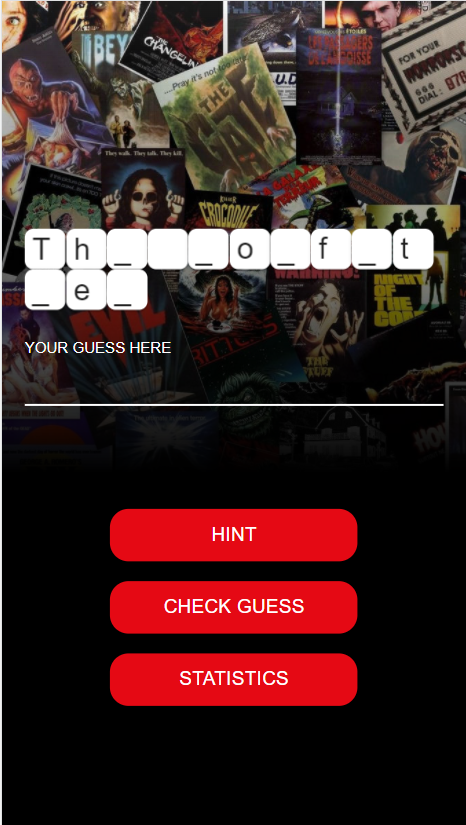
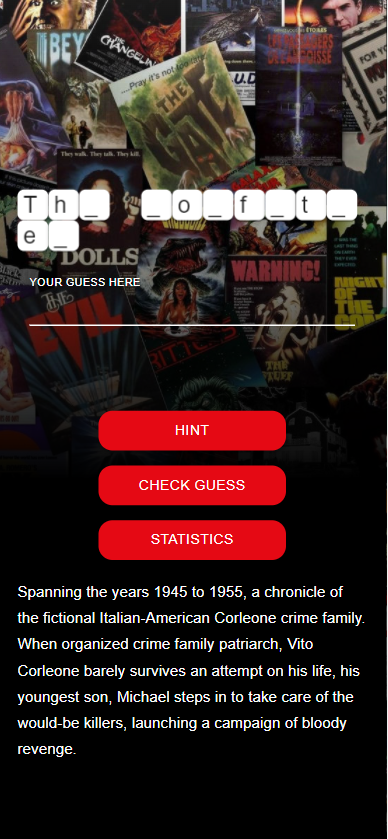
UI,gameplay improvments Added invisible elment as seperator of words in the puzzle Added case insensitivity when submitting a guess

diff --git a/src/components/flip-card/FlipCard.tsx b/src/components/flip-card/FlipCard.tsx
@@ -7,7 +7,13 @@ interface FlipCardProps {
   letter: string;
 }
 
+enum VisibleTypes {
+  hidden = "hidden",
+  visible = "visible",
+}
+
 const FlipCard: FC<FlipCardProps> = ({ letter }) => {
+  const visible = letter === " " ? VisibleTypes.hidden : VisibleTypes.visible;
   const [isFlipped, setIsFlipped] = useState(false);
   const handleClick = () => {
     setIsFlipped(!isFlipped);
@@ -18,7 +24,7 @@ const FlipCard: FC<FlipCardProps> = ({ letter }) => {
     }, 40);
   });
   return (
-    <Grid item>
+    <Grid item sx={{ visibility: visible }}>
       <ReactCardFlip isFlipped={isFlipped} flipDirection="vertical">
         <FlipPaper onMouseEnter={handleClick}></FlipPaper>
         <FlipPaper onMouseEnter={handleClick}>

diff --git a/src/game/components/buttons/check-guess-button/CheckGuessButton.tsx b/src/game/components/buttons/check-guess-button/CheckGuessButton.tsx
@@ -20,7 +20,7 @@ const CheckGuessButton: FC<CheckGuessButtonProps> = ({
 }) => {
   const { state, setState } = useContext(AppContext);
   const handleGuess = () => {
-    if (guess === state.currentMovie!.title) {
+    if (guess.toLowerCase() === state.currentMovie!.title.toLowerCase()) {
       if (state.movies.length === 1) {
         setState({ ...state, status: StatusTypes.gameOver });
       } else {
